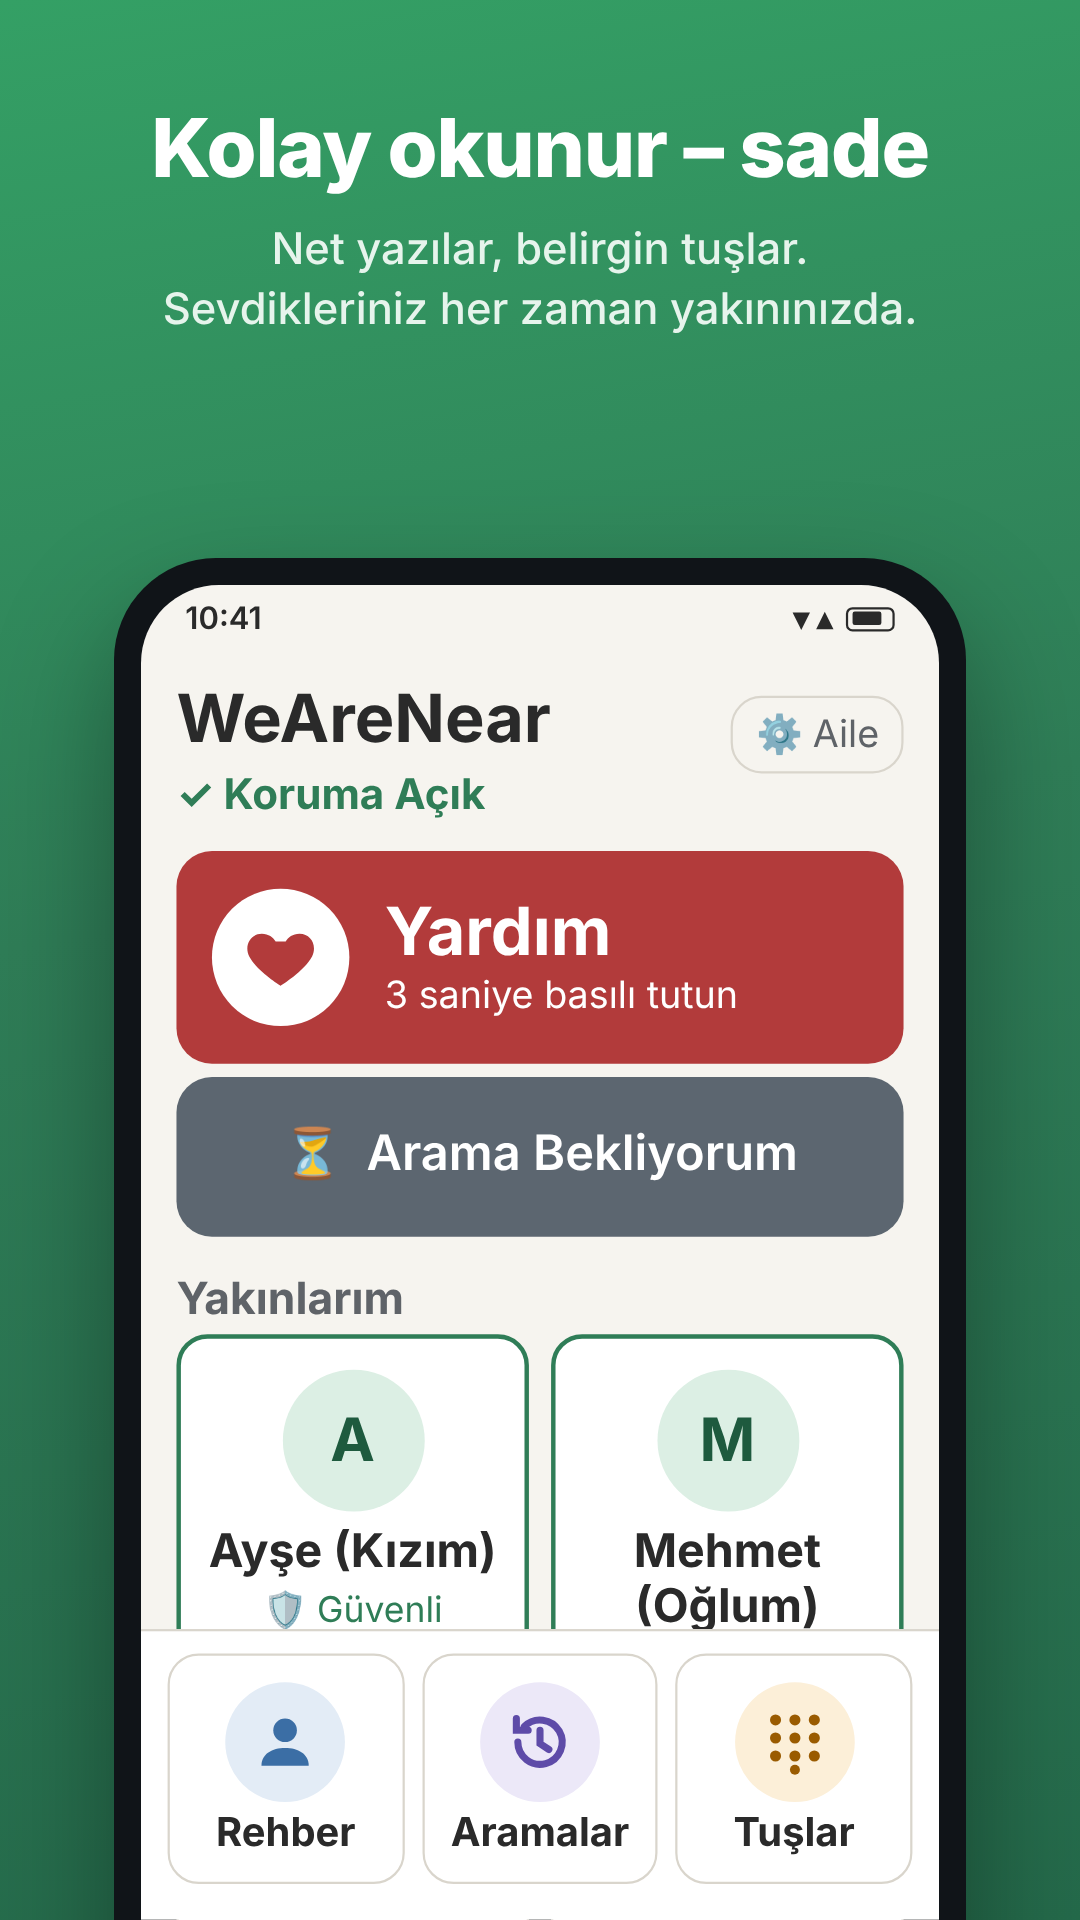
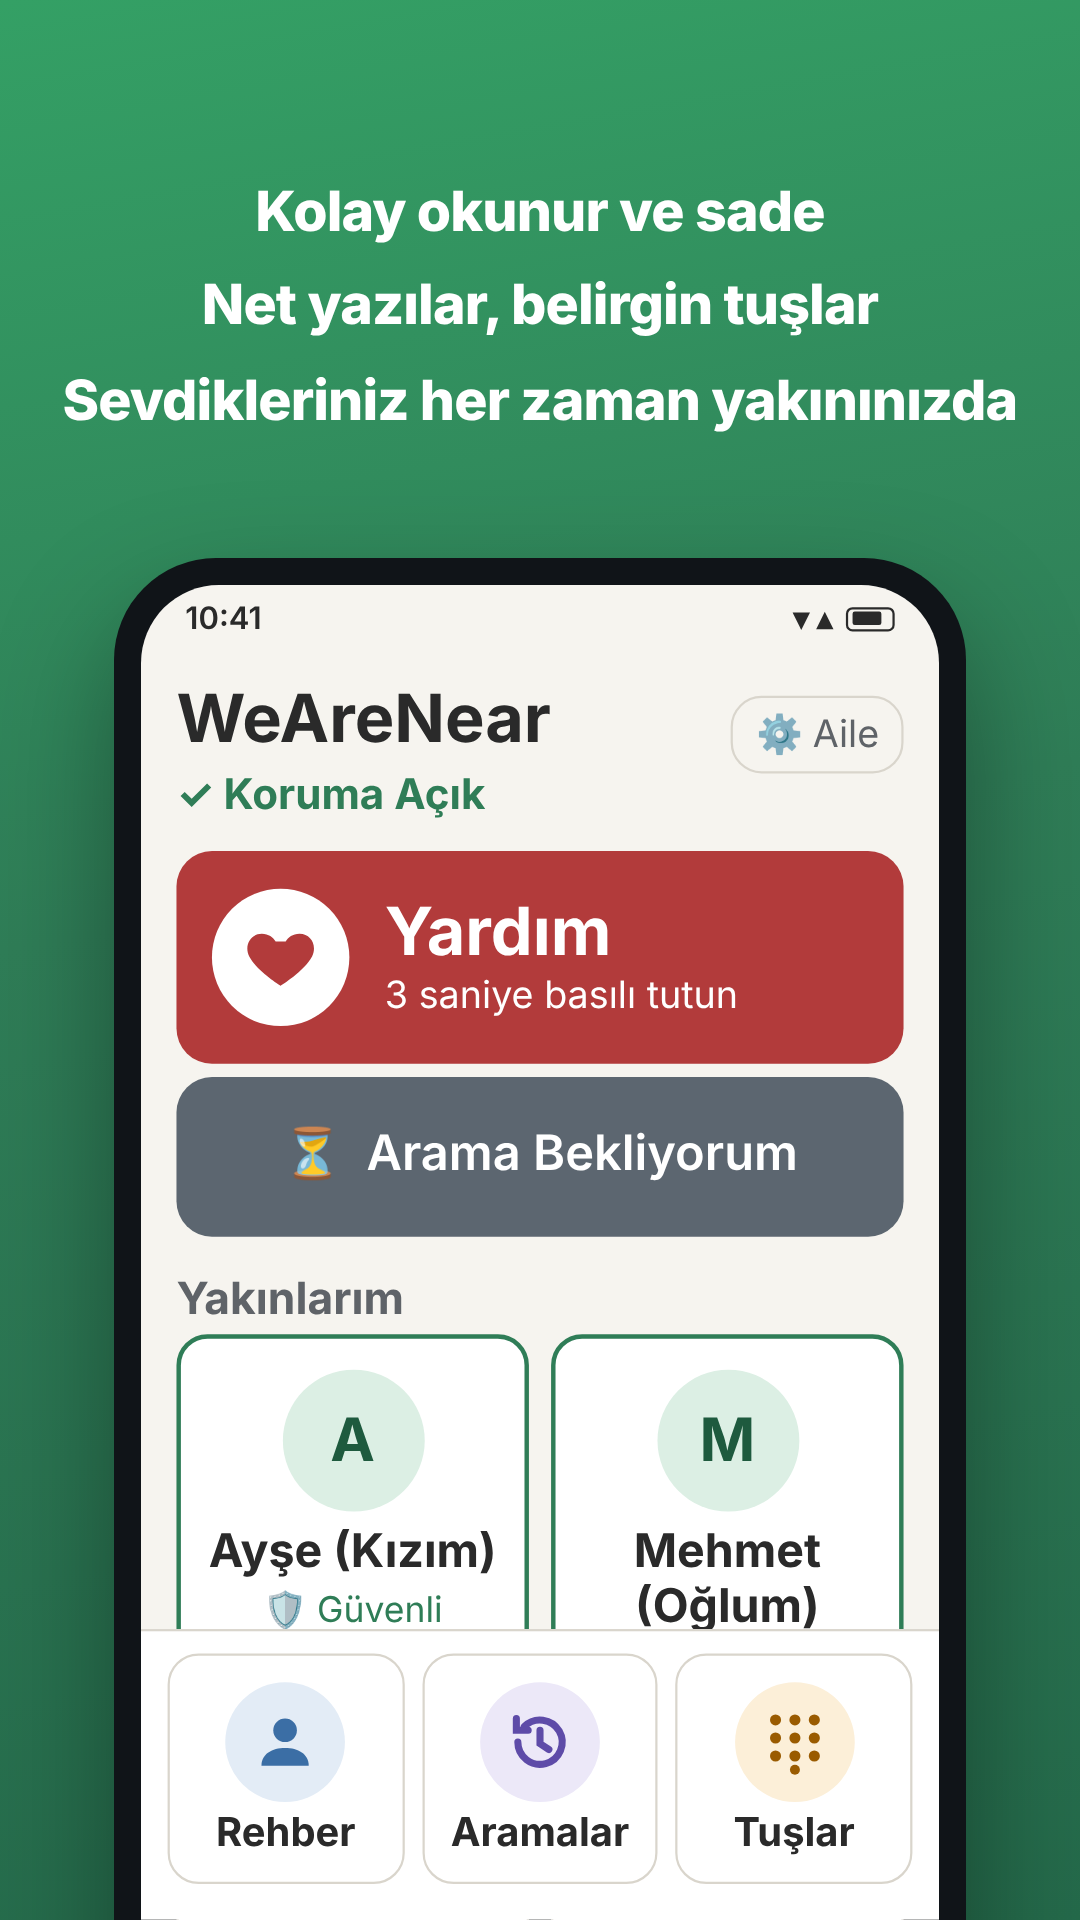
1. mağaza görseli: üç eşit kalın satır
Claude-Session: https://claude.ai/code/session_01KjC5ELx3Fq1ALdJeCGRpyj

Changed region(s): [[0.0611, 0.0625, 0.9472, 0.2188]]

diff --git a/tools/store_shots.html b/tools/store_shots.html
@@ -14,6 +14,7 @@ body{background:#888;font-family:Inter,"Noto Color Emoji",sans-serif}
   background:linear-gradient(170deg,#34A065 0%,#2F7D57 45%,#24694A 100%);margin:0 0 10px 0}
 .cap{position:absolute;left:0;right:0;top:34px;padding:0 26px;text-align:center;color:#fff}
 .cap h1{font-size:27px;line-height:1.16;font-weight:800;letter-spacing:-.4px}
+.cap3{top:56px;color:#fff;padding:0 12px}.cap3 div{font-size:18.5px;font-weight:800;line-height:1.7;letter-spacing:-.3px;white-space:nowrap}
 .cap p{font-size:14.5px;line-height:1.38;margin-top:9px;color:#E6F4EC;font-weight:500}
 .phone{position:absolute;left:38px;top:186px;width:284px;height:520px;border-radius:34px;
   background:#101418;padding:9px;box-shadow:0 18px 40px rgba(0,0,0,.35)}
@@ -87,8 +88,7 @@ body{background:#888;font-family:Inter,"Noto Color Emoji",sans-serif}
 
 <!-- ===== 1: Ana ekran ===== -->
 <div class="shot" id="s1">
-  <div class="cap"><h1>Kolay okunur – sade</h1>
-    <p>Net yazılar, belirgin tuşlar.<br>Sevdikleriniz her zaman yakınınızda.</p></div>
+  <div class="cap cap3"><div>Kolay okunur ve sade</div><div>Net yazılar, belirgin tuşlar</div><div>Sevdikleriniz her zaman yakınınızda</div></div>
   <div class="phone"><div class="screen"><div class="ui main">
     <div class="status"><span>10:41</span><span class="ic">▾ ▴ <i class="bat"></i></span></div>
     <div class="hdr"><div><h2>WeAreNear</h2><div class="ok">✓ Koruma Açık</div></div><div class="fam">⚙ Aile</div></div>
